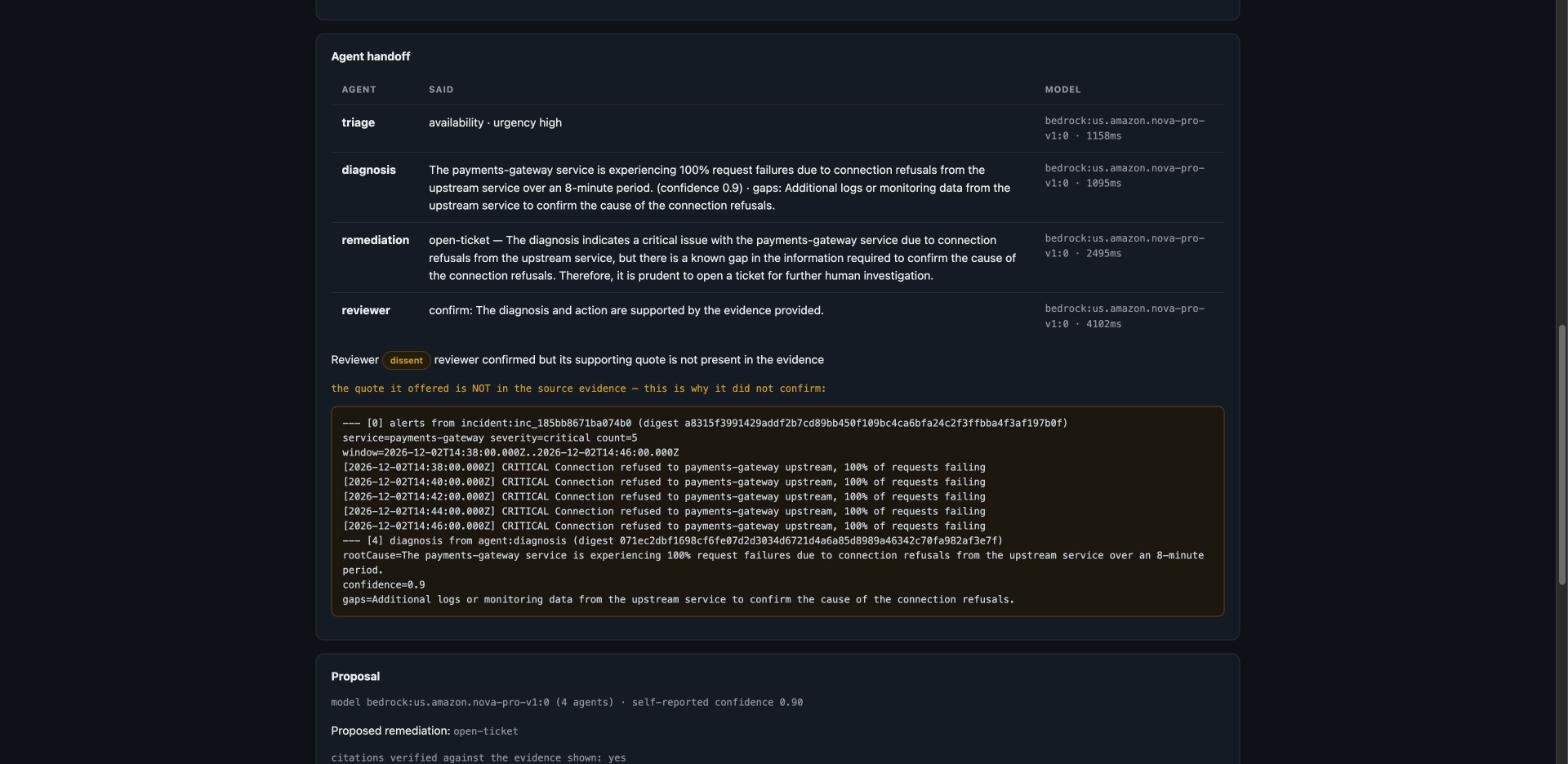
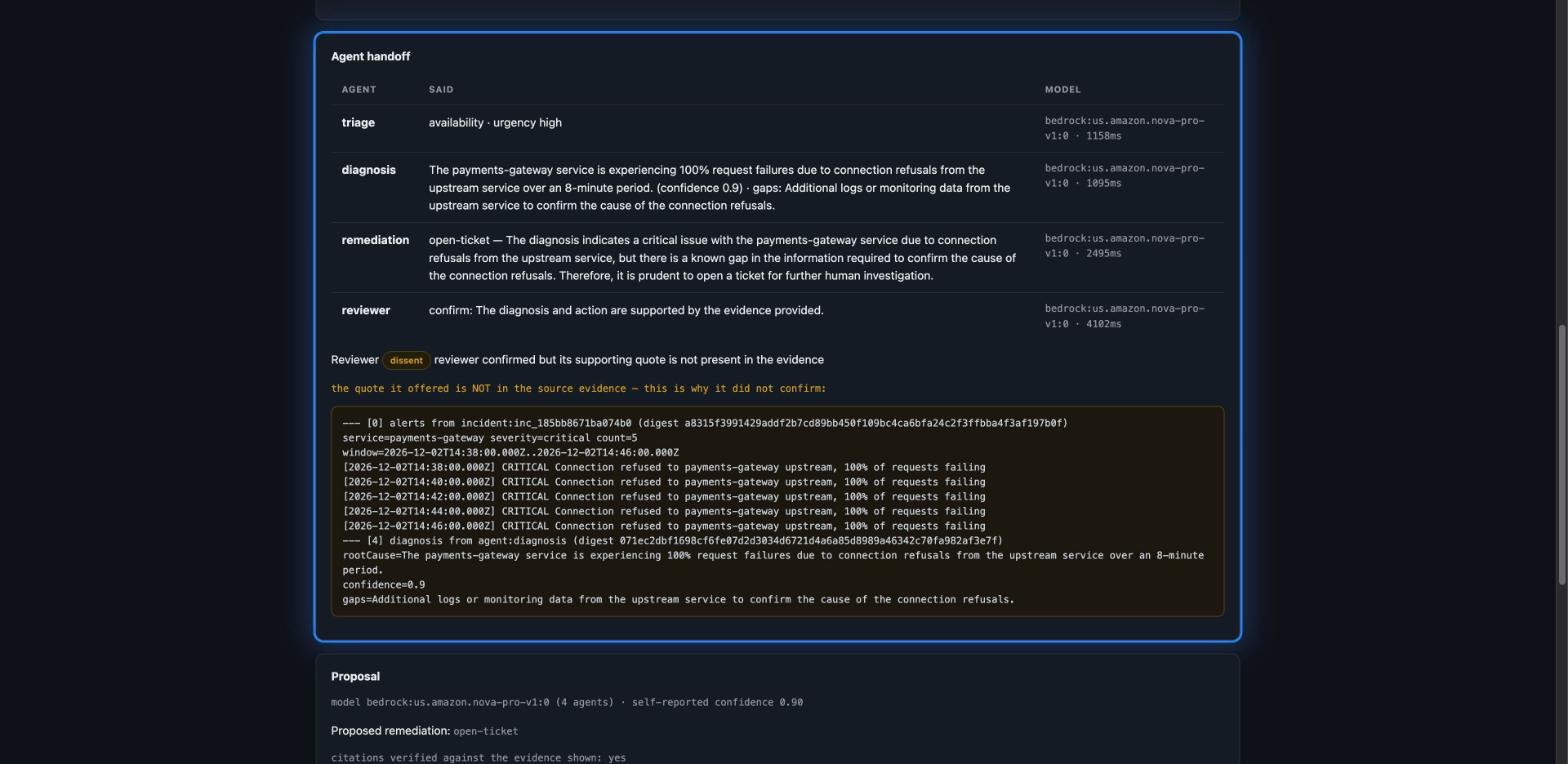
Give the cut a title card, an end card, and highlighted beats
Three changes toward something that looks produced rather than assembled:

  - a title card and an end card, rendered in the browser so the type matches
    the console's; the end card carries the measured numbers, the disclosed
    false auto-action among them, rather than a link judges cannot open
  - every beat frame recaptured with the element that beat is about ringed in
    the browser before capture — the paged-to-a-human tile, the suppression
    panel, the evidence bundle, the agent handoff, the gate decision, and the
    acme counter in amber
  - a fade from black at the top and to black at the tail

Cuts between beats stay hard on purpose: a crossfade would slide content away
from the timecode the reader is reading to.

The fade exposed a real bug worth recording. The concat demuxer emits ONE
frame per still image, so the filter graph saw eleven frames for the whole
film and fade=t=in blacked out frame zero — which is the entire title card,
duplicated afterwards by the frame-rate conversion. The card rendered
uniformly black while every input file was perfect. fps=30 now runs first in
the chain, and the build samples the midpoint of every shot in the OUTPUT and
refuses to ship a cut where any of them is blank. Verified that guard exits
non-zero against a deliberately blacked frame.

Picture is 2:55 (4s title + 2:45 narration + 6s end card), inside the 3:00
cap. The narration window is unchanged, so the teleprompter still maps onto
[…]

Changed region(s): [[0.1875, 0.0301, 0.8125, 0.873]]

diff --git a/tests/video.test.js b/tests/video.test.js
@@ -16,7 +16,7 @@ const toSeconds = (mmss) => {
 /* The teleprompter is what a person reads aloud; the build script decides when
    the picture actually cuts. They are two files, so they drift. These bind them. */
 
-test("the teleprompter's last beat ends exactly where the picture does", () => {
+test("the teleprompter's last beat ends exactly where the narration window does", () => {
   const beats = [...prompter.matchAll(/^### \d+ · (\d+:\d\d) → (\d+:\d\d) ·/gm)];
   assert.ok(beats.length >= 9, `expected at least 9 beats, found ${beats.length}`);
 
@@ -29,7 +29,7 @@ test("the teleprompter's last beat ends exactly where the picture does", () => {
   assert.equal(
     pictureEnd,
     narrationEnd,
-    `the script ends at ${narrationEnd}s but the picture runs ${pictureEnd}s`,
+    `the script ends at ${narrationEnd}s but the narration window is ${pictureEnd}s`,
   );
 });
 
@@ -43,10 +43,19 @@ test("the teleprompter's beats run back to back, with no gap or overlap", () => 
 });
 
 test("neither cut can be built over the three-minute cap", () => {
-  const video = [...buildVideo.matchAll(/^\s+"[a-z0-9_]+:(\d+)"/gm)]
+  /* The picture is longer than the narration: a title card runs before anyone
+     speaks and an end card holds after the last word. The cap applies to the
+     whole file, so count all three. */
+  const narration = [...buildVideo.matchAll(/^\s+"[a-z0-9_]+:(\d+)"/gm)]
     .map((m) => Number(m[1]))
     .reduce((a, b) => a + b, 0);
-  assert.ok(video <= CAP_SECONDS, `narrated cut is ${video}s, over the ${CAP_SECONDS}s cap`);
+  const leadIn = Number(buildVideo.match(/^LEAD_IN=(\d+)/m)[1]);
+  const tail = Number(buildVideo.match(/^TAIL=(\d+)/m)[1]);
+  const video = leadIn + narration + tail;
+  assert.ok(
+    video <= CAP_SECONDS,
+    `picture is ${video}s (${leadIn} title + ${narration} narration + ${tail} end), over the ${CAP_SECONDS}s cap`,
+  );
 
   const shots = [...buildReel.matchAll(/\bc\d\d:(\d+)/g)].map((m) => Number(m[1]));
   assert.ok(shots.length > 0, "found no caption durations in build-reel.sh");
@@ -61,5 +70,16 @@ test("every caption the reel names has a frame on disk", async () => {
   assert.ok(names.length > 0, "found no captions in build-reel.sh");
   for (const n of names) {
     assert.ok(existsSync(`video/reel/${n}.jpg`), `build-reel.sh names ${n} but video/reel/${n}.jpg is missing`);
+  }
+});
+
+test("the title and end cards exist as frames", async () => {
+  const { existsSync } = await import("node:fs");
+  for (const card of ["b00_title", "b10_end"]) {
+    assert.ok(
+      buildVideo.includes(card),
+      `build-video.sh no longer uses ${card}`,
+    );
+    assert.ok(existsSync(`video/frames/${card}.jpg`), `video/frames/${card}.jpg is missing`);
   }
 });

diff --git a/docs/video-teleprompter.md b/docs/video-teleprompter.md
@@ -3,9 +3,13 @@
 Nine beats, **2:45** against a 3:00 cap. ~410 words, so ~150 a minute. Open on a phone or second
 screen. If you finish a beat early, pause; do not improvise.
 
-**The picture is already finished.** You are recording voice only, over a locked 2:45 cut. There is
-no browser to drive and no keystrokes to hit — those were needed when the demo was captured live,
-and they are not any more. Play `video/nightshift_silent.mp4` on one screen and read from the other.
+**The picture is already finished.** You are recording voice only, over a locked cut. There is no
+browser to drive and no keystrokes to hit — those were needed when the demo was captured live, and
+they are not any more. Play `video/nightshift_silent.mp4` on one screen and read from the other.
+
+**A 4-second title card runs first.** Do not speak over it. Start on beat 1 when the dashboard
+appears; the build script offsets your take by those four seconds automatically. An end card holds
+for six seconds after your last word. The whole file is 2:55, the spoken part 2:45.
 
 **Reset first:** `./scripts/video-reset.sh` — it checks the tests, confirms the deployed site matches
 the committed run data, and proves the site regenerates byte for byte. It exits non-zero if anything
@@ -96,7 +100,8 @@ limits are in the README, written before you asked.
 1. Play `video/nightshift_silent.mp4` once through without speaking, to learn where the cuts land.
 2. Record with QuickTime Player (**File → New Audio Recording**) or Voice Memos. Quiet room, mic
    close in, **one continuous take** — do not stop between beats.
-3. Start the recording and the video together, and read to the timecodes.
+3. Start recording, start the video, and begin beat 1 when the dashboard appears — not on the
+   title card. Read to the timecodes from there.
 4. Lay the take over the picture:
 
    ```bash
